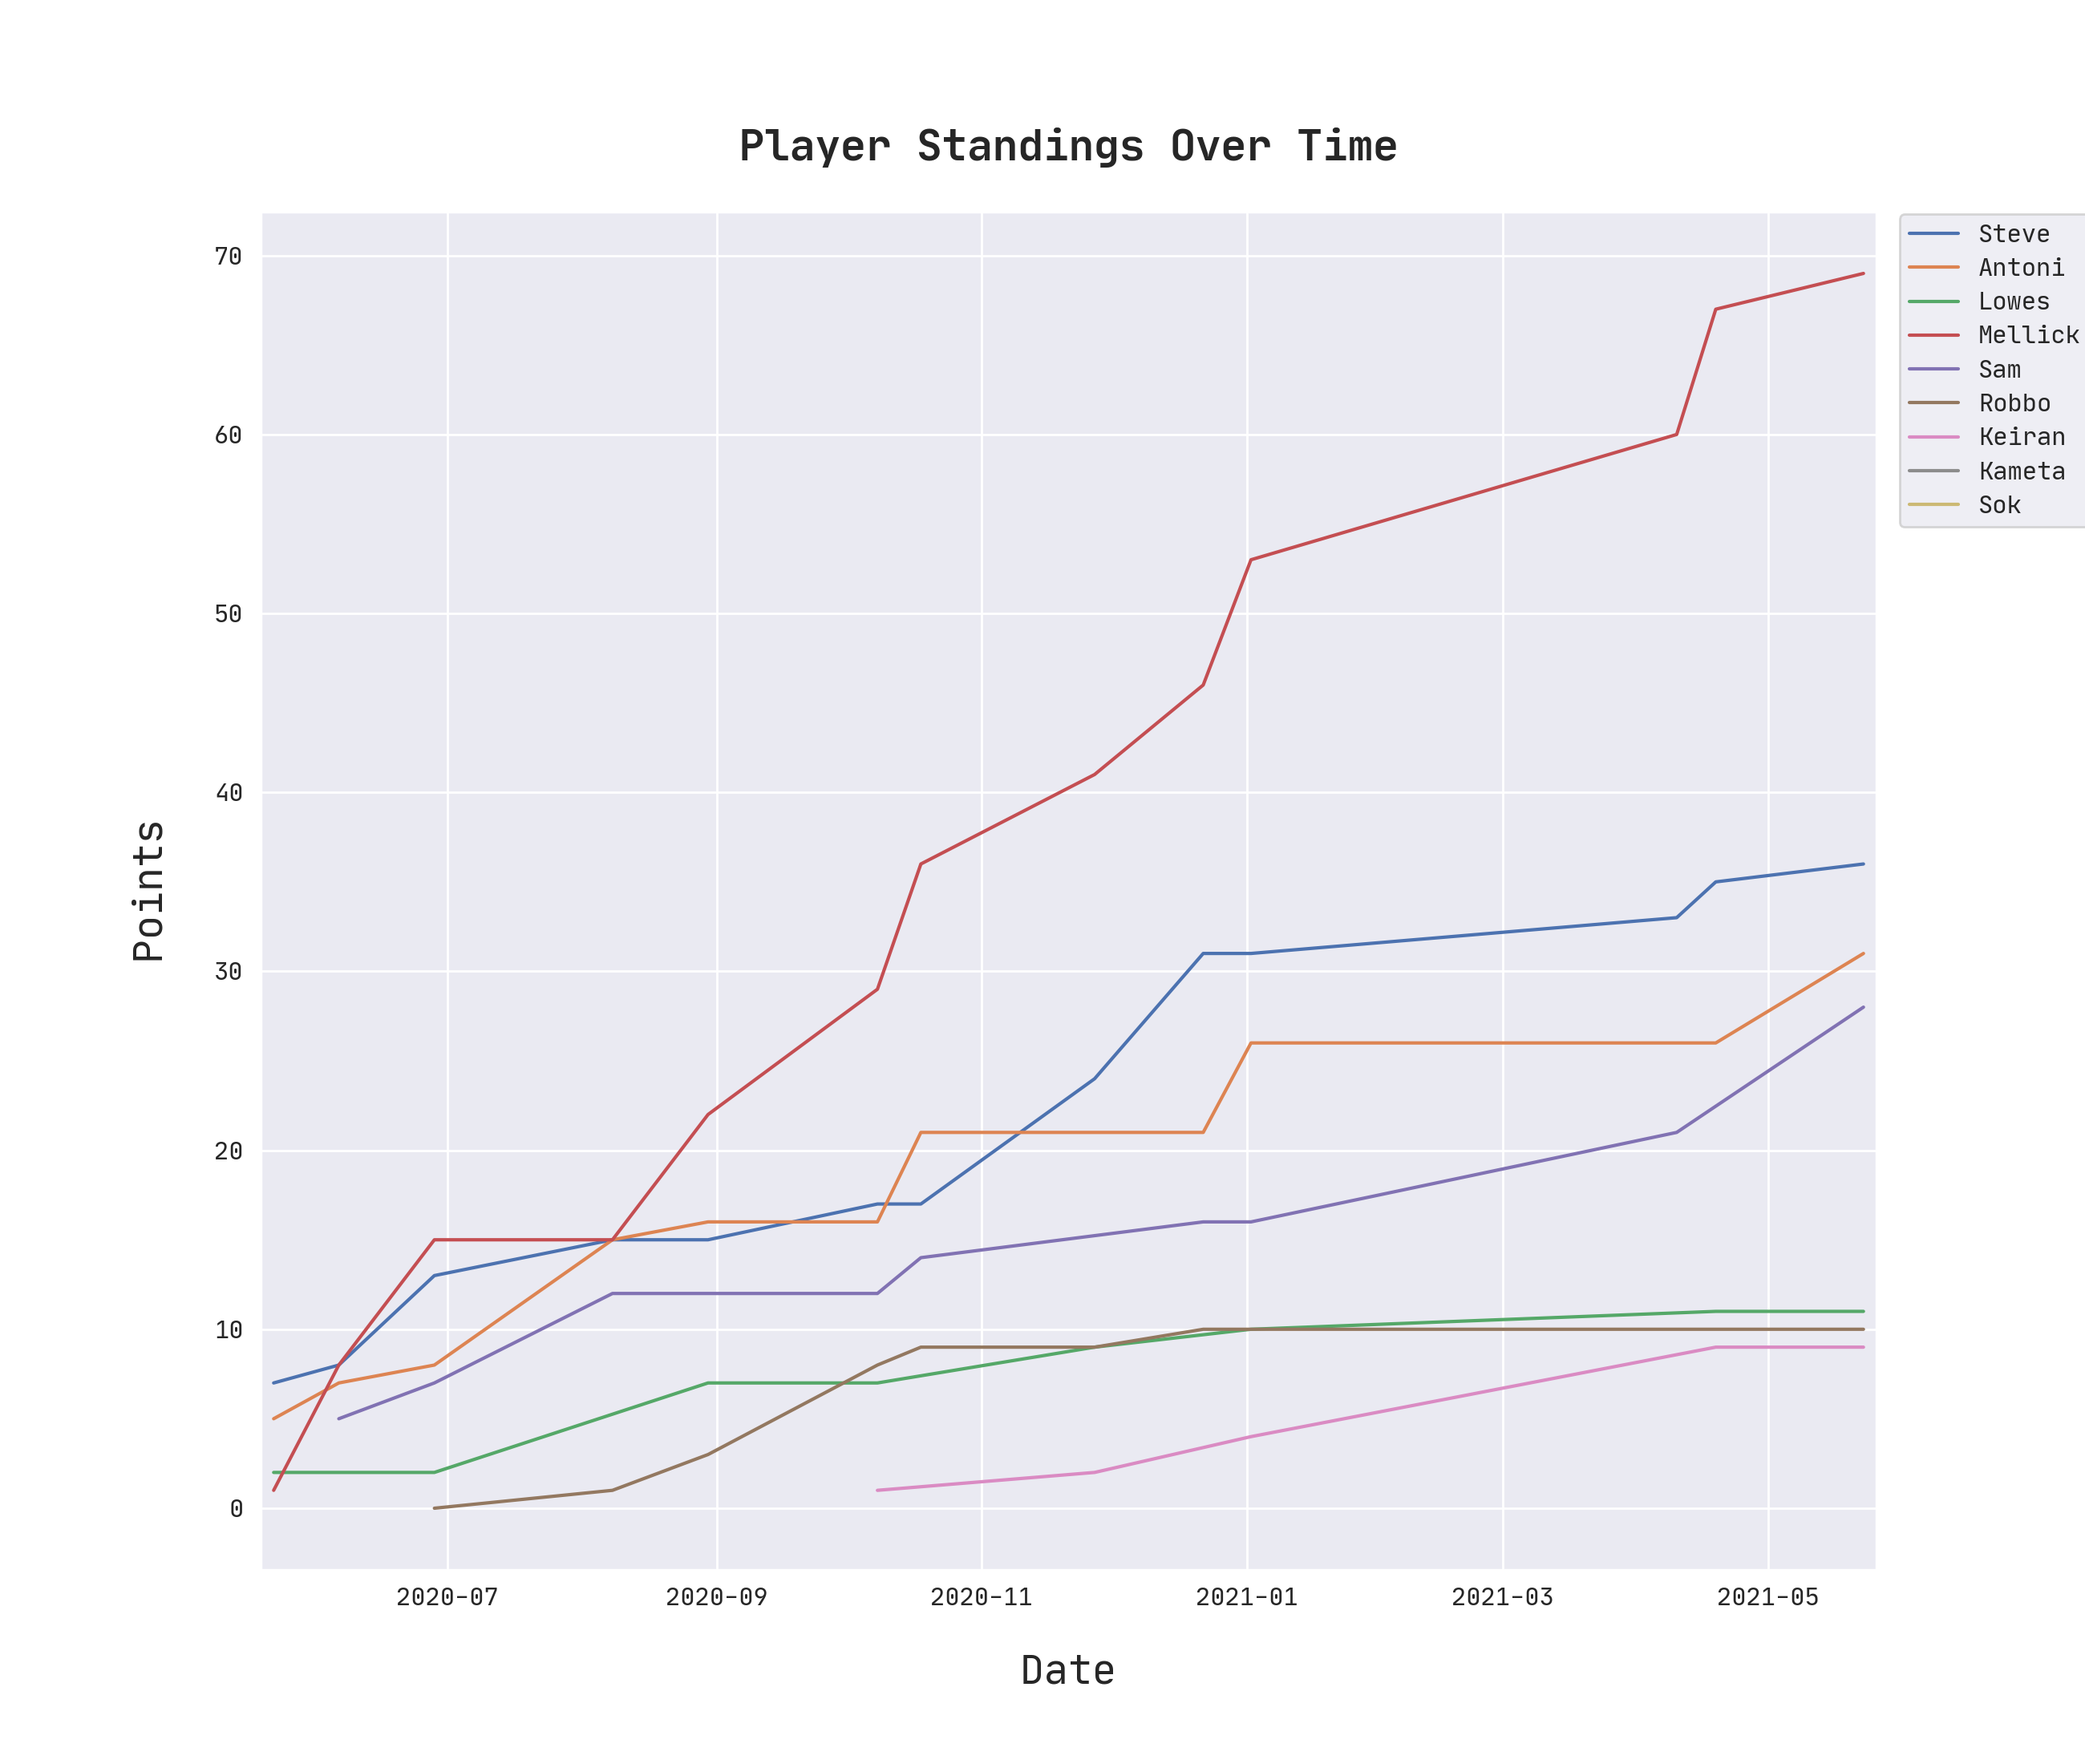
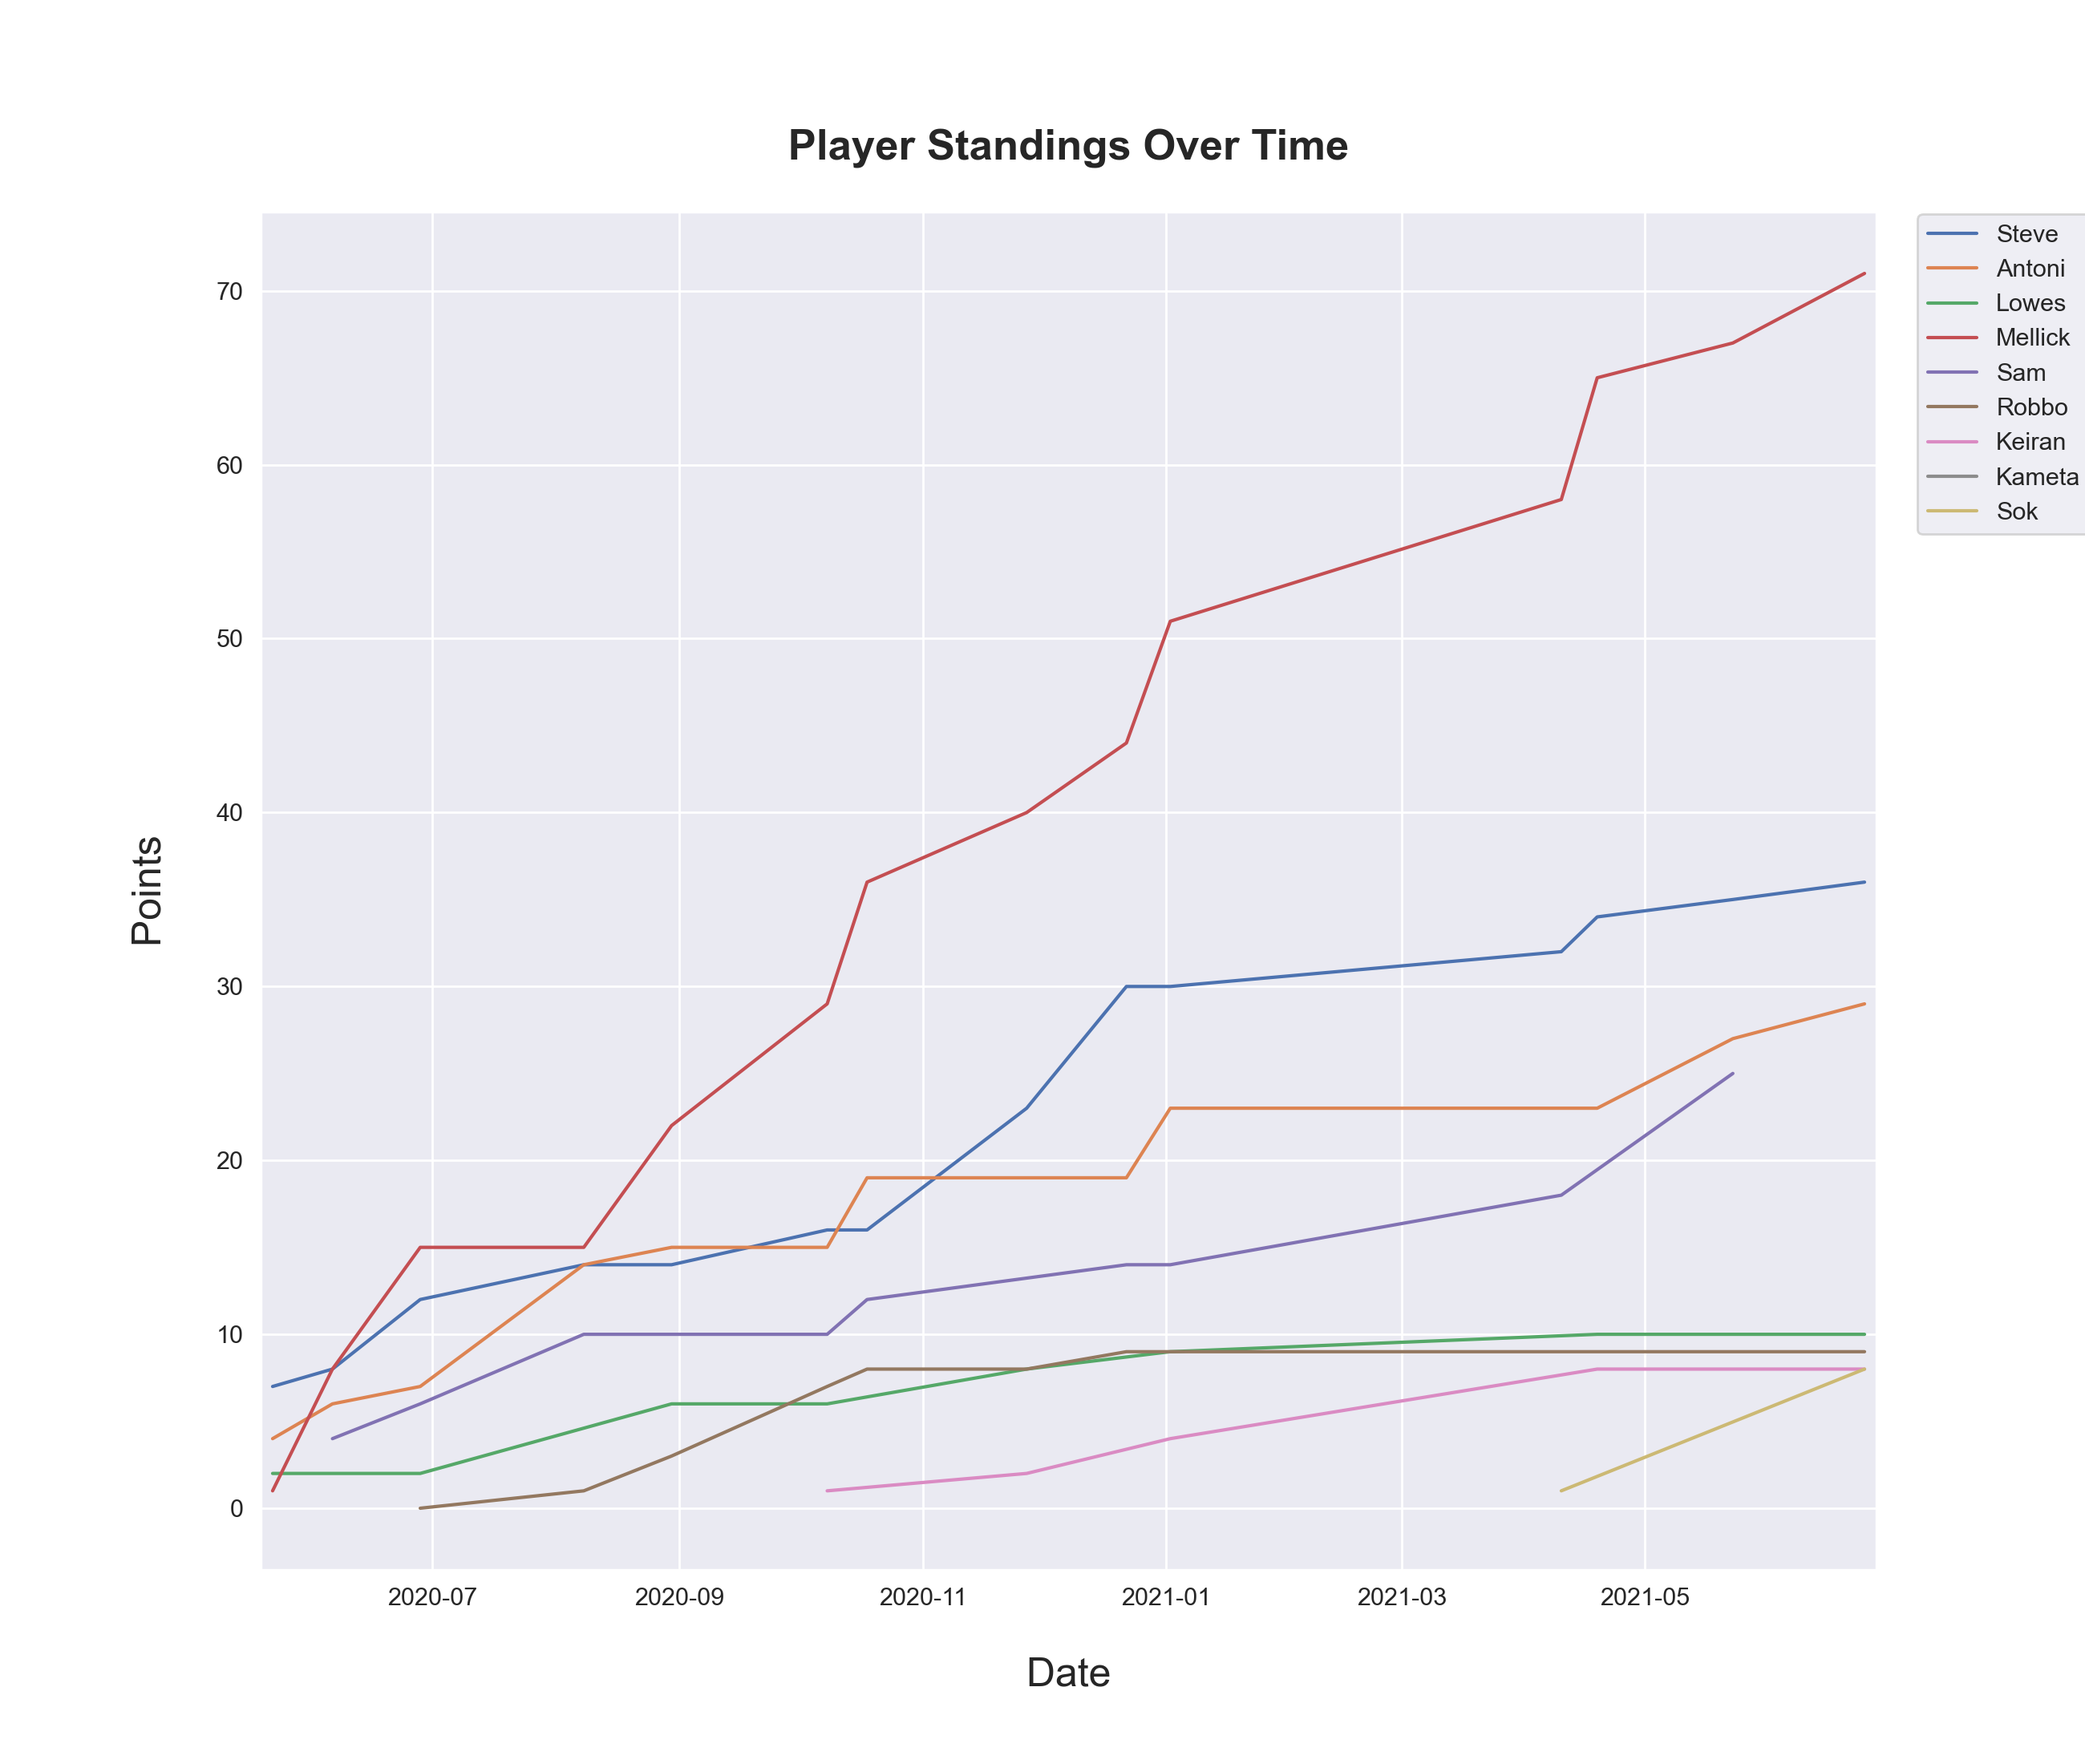
updated rankings for previous game

diff --git a/poker.py b/poker.py
@@ -69,7 +69,7 @@ def generate_plot(data: pd.DataFrame()):
     plt.rcParams["figure.figsize"] = (26, 22)
 
     # setting font family
-    plt.rcParams['font.family'] = 'Jetbrains Mono'
+    # plt.rcParams['font.family'] = 'mono'
 
     # plt.rcParams['lines.linewidth'] = 20
     # plt.rcParams['lines.markersize'] = 1
